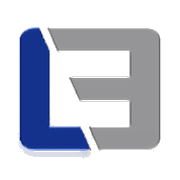
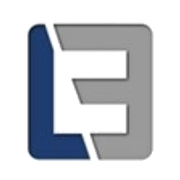
Beschriftung: Ausdruck nach neuer Vorlage mit Firmenlogo, 2 x 36 auf A4; schärferes App-Symbol
Claude-Session: https://claude.ai/code/session_01BHPGQ94nfcUxtrGXoEe99s

Changed region(s): [[0.0833, 0.1111, 0.9167, 0.9167]]

diff --git a/beschriftung/index.html b/beschriftung/index.html
@@ -516,7 +516,7 @@ const CHIPS_EDV=['Wohnzimmer','Schlafzimmer','Kinderzimmer 1','Kinderzimmer 2','
 /* ---------- model ---------- */
 const liste=(title,n,t=[])=>({id:uid(),kind:'liste',title,n,t:Array.from({length:n},(_,i)=>t[i]||'')});
 const knx=(akt=[])=>({id:uid(),kind:'knx',title:'KNX Aktoren',akt});
-function blank(n=30){return {app:'lebeschriftung',id:uid(),meta:{projekt:'',verteiler:'',ort:''},te:12,secs:[liste('Verteiler Beschriftung',n)]};}
+function blank(n=36){return {app:'lebeschriftung',id:uid(),meta:{projekt:'',verteiler:'',ort:''},te:12,secs:[liste('Verteiler Beschriftung',n)]};}
 function settings(){return {mail:'andreas-ekkert@online.de',...J(KEY+'.set',{})};}
 const st={doc:null,sec:0,sel:null,view:'list',span:1,hist:[],touched:false};
 const pname=d=>[d.meta.projekt,d.meta.verteiler].filter(Boolean).join(' · ')||'Neue Beschriftung';
@@ -627,12 +627,12 @@ function sheet(title,html,tabs=''){layer.innerHTML=`<div class="scrim" data-clos
   layer.querySelectorAll('[data-close]').forEach(el=>el.addEventListener('click',closeSheet));return layer.querySelector('.sheet');}
 function arm(b,txt){if(b.classList.contains('armed'))return true;const o=b.innerHTML;b.classList.add('armed');if(b.classList.contains('ib'))toast('Zum Löschen noch einmal tippen');else b.textContent=txt;setTimeout(()=>{if(b.isConnected){b.classList.remove('armed');b.innerHTML=o;}},3500);return false;}
 function openAddSec(){
-  const sh=sheet('Abschnitt hinzufügen',`<div class="list"><button class="btn" data-a="vt30">Verteiler 1–30</button><button class="btn" data-a="vt60">Verteiler 1–60</button><button class="btn" data-a="knx">KNX Aktoren mit Kanälen</button><button class="btn" data-a="edv">EDV Beschriftung 1–30</button></div>
+  const sh=sheet('Abschnitt hinzufügen',`<div class="list"><button class="btn" data-a="vt36">Verteiler 1–36</button><button class="btn" data-a="vt72">Verteiler 1–72</button><button class="btn" data-a="knx">KNX Aktoren mit Kanälen</button><button class="btn" data-a="edv">EDV Beschriftung 1–36</button></div>
    <div class="lbl">Aktueller Abschnitt</div><label class="f">Überschrift<input class="in" id="sT" value="${esc(sec().title)}"></label>
    <div class="row" style="margin-top:12px"><button class="btn warnb" data-delsec ${st.doc.secs.length<2?'disabled':''}>Abschnitt löschen</button></div>`);
   sh.addEventListener('input',e=>{if(e.target.id==='sT'){sec().title=e.target.value;st.touched=true;persist();render();}});
   sh.addEventListener('click',e=>{const b=e.target.closest('button');if(!b||b.hasAttribute('data-close'))return;
-    if(b.dataset.a){hist();const a=b.dataset.a;st.doc.secs.push(a==='knx'?knx():a==='edv'?liste('EDV Beschriftung',30):liste('Verteiler Beschriftung',a==='vt60'?60:30));st.sec=st.doc.secs.length-1;st.sel=null;changed();closeSheet();}
+    if(b.dataset.a){hist();const a=b.dataset.a;st.doc.secs.push(a==='knx'?knx():a==='edv'?liste('EDV Beschriftung',36):liste('Verteiler Beschriftung',a==='vt72'?72:36));st.sec=st.doc.secs.length-1;st.sel=null;changed();closeSheet();}
     else if(b.hasAttribute('data-delsec')){if(!arm(b,'Wirklich löschen?'))return;hist();st.doc.secs.splice(st.sec,1);st.sec=0;st.sel=null;changed();closeSheet();}});
 }
 let mTab='proj';
@@ -645,7 +645,7 @@ function reMenu(){const b=layer.querySelector('.sh-body');if(b)b.innerHTML=menuB
 function menuBody(){const d=st.doc,s=settings();
   if(mTab==='proj'){const idx=readIndex().sort((a,b)=>(b.ts||0)-(a.ts||0));const ts=d.ts?new Date(d.ts).toLocaleString('de-DE',{day:'2-digit',month:'2-digit',hour:'2-digit',minute:'2-digit'}):'noch nicht';
     return `<div class="row" style="margin-top:6px"><button class="btn pri" data-save>Speichern</button><span class="note" style="margin:0;flex:1;min-width:180px">Speichert auf diesem Gerät. Zuletzt: ${ts}. Passiert auch automatisch.</span></div>
-    <div class="lbl">Neue Beschriftung</div><div class="row"><button class="btn" data-new="30">Leer 1–30</button><button class="btn" data-new="60">Leer 1–60</button></div>
+    <div class="lbl">Neue Beschriftung</div><div class="row"><button class="btn" data-new="36">Leer 1–36</button><button class="btn" data-new="72">Leer 1–72</button></div>
     <div class="lbl">Meine Beschriftungen</div><div class="list">${idx.map(p=>`<div class="li ${p.id===d.id?'cur':''}"><button class="nm" data-open="${p.id}">${esc(p.name)}</button><span class="no">${new Date(p.ts||0).toLocaleDateString('de-DE')}</span>${p.id===d.id?'':`<button class="ib dang" data-del="${p.id}" aria-label="Löschen">${TRASH}</button>`}</div>`).join('')||'<p class="note">Noch nichts gespeichert.</p>'}</div>
     <div class="lbl">Meine Vorlagen</div><div class="row"><button class="btn" data-savetpl>Aktuelle als Vorlage speichern</button></div>
     <div class="list">${readTpl().map(t=>`<div class="li"><button class="nm" data-tpl="${t.id}">${esc(t.name)}</button><button class="ib dang" data-deltpl="${t.id}" aria-label="Vorlage löschen">${TRASH}</button></div>`).join('')||'<p class="note">Noch keine eigene Vorlage. Eine Vorlage ist eine Kopie, die du immer wieder öffnen kannst.</p>'}</div>
@@ -654,8 +654,8 @@ function menuBody(){const d=st.doc,s=settings();
     <label class="f">Bauvorhaben / Kunde<input class="in" data-meta="projekt" value="${esc(d.meta.projekt)}"></label>
     <label class="f">Verteiler<input class="in" data-meta="verteiler" value="${esc(d.meta.verteiler)}" placeholder="z. B. UV Wohnung 3"></label>
     <label class="f">Ort<input class="in" data-meta="ort" value="${esc(d.meta.ort)}"></label>`;
-  if(mTab==='send')return `<p class="note">Erzeugt ein PDF wie deine Excel-Liste, fertig zum Ausdrucken.</p>
-    <div class="lbl">Ausdruck</div><div class="row"><button class="chip" data-cols="1" aria-pressed="${(d.cols||2)===1}">Einspaltig (A4 hoch)</button><button class="chip" data-cols="2" aria-pressed="${(d.cols||2)===2}">Zweispaltig (A4 quer)</button></div>
+  if(mTab==='send')return `<p class="note">Erzeugt ein PDF wie deine Excel-Vorlage mit dem Firmenlogo oben, fertig zum Ausdrucken.</p>
+    <div class="lbl">Ausdruck</div><div class="row"><button class="chip" data-cols="1" aria-pressed="${(d.cols||2)===1}">Einspaltig (A4 hoch, 45)</button><button class="chip" data-cols="2" aria-pressed="${(d.cols||2)===2}">Zweispaltig (A4 quer, 2 × 36)</button></div>
     <label class="f">An E-Mail-Adresse<input class="in" id="mMail" value="${esc(s.mail)}" inputmode="email"></label>
     <div class="list" style="margin-top:12px"><button class="btn pri" data-mail>PDF per Mail senden</button><button class="btn" data-pdf>PDF speichern</button></div>
     <p class="note">Am Telefon öffnet sich das Teilen-Menü: dort „Mail“ wählen und ${esc(s.mail)} als Empfänger eintragen. Am Rechner wird das PDF gespeichert und eine Mail vorbereitet.</p>`;
@@ -683,21 +683,25 @@ function pdfRows(s){ // -> [{nr,text,bold}]
   if(s.kind==='liste')return s.t.slice(0,s.n).map((t,i)=>({nr:String(i+1),text:t}));
   const r=[];s.akt.forEach((a,ai)=>{if(ai)r.push({nr:'',text:''});if(!a.ch.length)r.push({nr:a.lab,text:'',bold:true});a.ch.forEach((c,ci)=>r.push({nr:ci?'':a.lab,text:`Kanal  ${ABC[ci%26]}   ${c}`,bold:true}));});return r;
 }
[1 lines of base64/hex data omitted]
 function buildPDF(){
   if(!window.jspdf)throw new Error('nolib');
   const d=st.doc,two=(d.cols||2)===2,ori=two?'landscape':'portrait';
   const pdf=new window.jspdf.jsPDF({orientation:ori,unit:'mm',format:'a4',compress:true});
-  const PER=two?30:45,RH=5.6,CW=two?128:160,NW=18,XS=two?[12,157]:[25],Y0=10;let first=true;
+  const PER=two?36:45,RH=two?4.55:5.3,CW=two?128:160,NW=11,XS=two?[14,155]:[25],Y0=two?6:8,LH=two?23:27,GAP=4.6;let first=true;
   const sub=[d.meta.projekt,d.meta.verteiler,d.meta.ort].filter(Boolean).join(' · ');
   d.secs.forEach(s=>{const rows=pdfRows(s);if(!rows.length)return;
     for(let p=0;p*PER<rows.length;p++){const col=p%XS.length;if(col===0){if(!first)pdf.addPage('a4',ori);first=false;}
-      const x=XS[col];pdf.setDrawColor(0);pdf.setLineWidth(0.5);pdf.rect(x,Y0,CW,8);pdf.setFont('helvetica','bold');pdf.setFontSize(14);pdf.text(s.title,x+CW/2,Y0+5.8,{align:'center'});
-      if(sub){pdf.setFont('helvetica','normal');pdf.setFontSize(7.5);pdf.text(sub,x+CW,Y0+11.3,{align:'right',maxWidth:CW});}
-      let y=Y0+13;pdf.setLineWidth(0.25);pdf.rect(x,y,NW,RH);pdf.rect(x+NW,y,CW-NW,RH);pdf.setFont('helvetica','bold');pdf.setFontSize(10);pdf.text('Nr.',x+NW/2,y+4,{align:'center'});pdf.text('Bezeichnung',x+NW+1.5,y+4);
+      const x=XS[col];pdf.setDrawColor(0);pdf.setTextColor(0);pdf.setLineWidth(0.25);pdf.rect(x,Y0,CW,LH);
+      let iw=CW*0.8,ih=iw/LOGO_R;if(ih>LH-5){ih=LH-5;iw=ih*LOGO_R;}
+      try{pdf.addImage(LOGO,'JPEG',x+(CW-iw)/2,Y0+(LH-ih)/2,iw,ih,'logo','FAST');}catch(e){pdf.setFont('helvetica','bold');pdf.setFontSize(16);pdf.text('LEWIN & EKKERT ELEKTROTECHNIK',x+CW/2,Y0+LH/2+2,{align:'center'});}
+      pdf.setFontSize(7.5);pdf.setFont('helvetica','bold');pdf.text(s.title,x,Y0+LH+3.3);
+      if(sub){pdf.setFont('helvetica','normal');pdf.text(sub,x+CW,Y0+LH+3.3,{align:'right',maxWidth:CW*0.62});}
+      let y=Y0+LH+GAP;pdf.rect(x,y,NW,RH);pdf.rect(x+NW,y,CW-NW,RH);pdf.setFont('helvetica','bold');pdf.setFontSize(9);pdf.text('Nr.',x+NW/2,y+RH-1.3,{align:'center'});pdf.text('Bezeichnung',x+NW+(CW-NW)/2,y+RH-1.3,{align:'center'});
       rows.slice(p*PER,(p+1)*PER).forEach(r=>{y+=RH;pdf.rect(x,y,NW,RH);pdf.rect(x+NW,y,CW-NW,RH);
-        pdf.setFont('helvetica',r.bold&&r.nr?'bold':'normal');pdf.setFontSize(11);if(r.nr)pdf.text(r.nr,x+NW/2,y+4.1,{align:'center'});
-        pdf.setFont('helvetica','normal');let z=10;pdf.setFontSize(z);const t=String(r.text||'').replace(/\s+$/,'');while(z>6&&pdf.getTextWidth(t)>CW-NW-3){z-=.5;pdf.setFontSize(z);}
-        if(t)pdf.text(t,x+NW+1.5,y+4,{maxWidth:CW-NW-2.5});});}
+        pdf.setFont('helvetica','bold');pdf.setFontSize(9);if(r.nr)pdf.text(r.nr,x+NW/2,y+RH-1.3,{align:'center'});
+        pdf.setFont('helvetica','normal');let z=9.5;pdf.setFontSize(z);const t=String(r.text||'').replace(/\s+$/,'');while(z>6&&pdf.getTextWidth(t)>CW-NW-3){z-=.5;pdf.setFontSize(z);}
+        if(t)pdf.text(t,x+NW+1.5,y+RH-1.3,{maxWidth:CW-NW-2.5});});}
   });
   if(first){pdf.setFontSize(12);pdf.text('Keine Einträge',20,20);}
   pdf.setProperties({title:'Verteiler Beschriftung '+pname(d)});return pdf;
@@ -728,7 +732,7 @@ document.addEventListener('keydown',e=>{if(e.key==='Escape'){if(layer.innerHTML)
 window.addEventListener('pagehide',flush);document.addEventListener('visibilitychange',()=>{if(document.visibilityState==='hidden')flush();});
 try{if(navigator.storage&&navigator.storage.persist)navigator.storage.persist();}catch(e){}
 window.__leb={st,buildPDF,EX,load,blank};
-(function(){let d=null;const cur=store.get(KEY+'.cur');if(cur)d=J(KEY+'.doc.'+cur,null);if(!d||d.app!=='lebeschriftung')d=blank(30);d.meta={projekt:'',verteiler:'',ort:'',...d.meta};d.te=d.te||12;st.doc=d;render();})();
+(function(){let d=null;const cur=store.get(KEY+'.cur');if(cur)d=J(KEY+'.doc.'+cur,null);if(!d||d.app!=='lebeschriftung')d=blank(36);d.meta={projekt:'',verteiler:'',ort:'',...d.meta};d.te=d.te||12;st.doc=d;render();})();
 })();
 </script>
 

diff --git a/beschriftung/sw.js b/beschriftung/sw.js
@@ -1,4 +1,4 @@
-const C='lebesch-202611110851';
+const C='lebesch-20261111085857';
 const ROOT=new URL('./',self.location).pathname;
 const FILES=['./','index.html','manifest.webmanifest','icon-180.png','icon-192.png','icon-512.png'];
 const OWN=FILES.map(f=>new URL(f,self.location).pathname);

diff --git a/sw.js b/sw.js
@@ -1,4 +1,4 @@
-const C='leplan-202611110847';
+const C='leplan-20261111085857';
 const ROOT=new URL('./',self.location).pathname;
 const FILES=['./','index.html','manifest.webmanifest','icon-180.png','icon-192.png','icon-512.png'];
 const OWN=FILES.map(f=>new URL(f,self.location).pathname);
